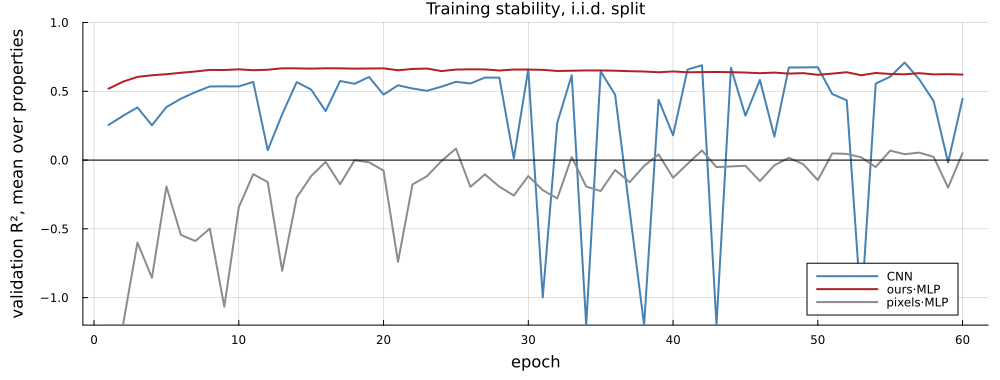
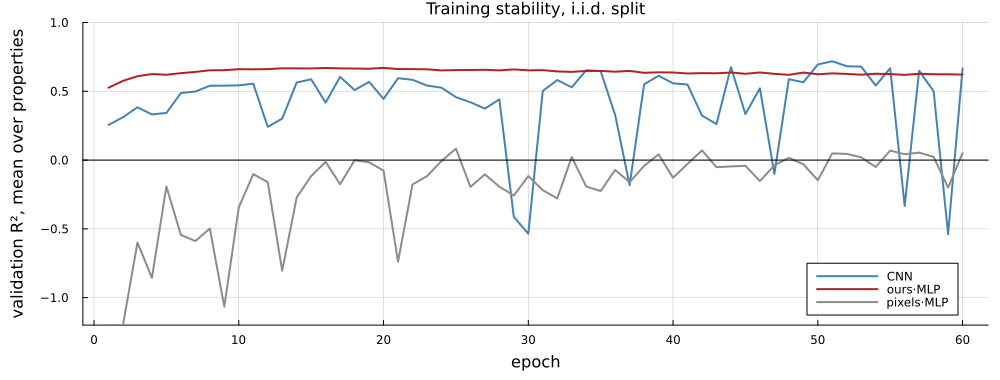
Rebuild every table and figure from one canonical run
The document had become a mixture: the i.i.d. table was updated after the
ratio-after-pooling fix, while the three extrapolation tables, the sample
efficiency curve, the grid sweep and all six figures still read from a run that
predated it.

Everything now comes from results_canon3 (grid 3, all arms, all stages),
results_canon1 (grid 1) and results_canon_g* (pooling sweep), all under the
current front end, so the tables and figures are internally consistent.

Numbers that moved materially: the CNN's polarity-split arms goes -0.415 ->
-0.057 and its thickness-split fuzziness -0.292 -> 0.239, both well inside the
~0.03-0.05 run-to-run variance already recorded for that arm; ours-linear
brokenness under blur 0.107 -> -0.029, which is a real degradation worth noting;
and the grid-1 configuration confirms at 0.925/0.737/0.938/0.954.

Plot_Phase9 also had to handle blocks.jls having become a NamedTuple when the
shuffle spread started being tracked, and now draws the leave-one-out rows.

diff --git a/SimpleStrokeTests/RESULTS.md b/SimpleStrokeTests/RESULTS.md
@@ -80,12 +80,16 @@ existed, and the pixel probe has 45× more free parameters than our feature prob
 | *trivial baseline* | 0.009 | 0.008 | 0.457 | 0.066 | 0.029 | 0.195 | 0.152 | 0.063 |
 | pixels·linear | −0.000 | −0.001 | −0.000 | −0.000 | 0.000 | −0.002 | −0.000 | **0.709** |
 | pixels·MLP | −0.183 | −0.404 | 0.721 | −0.137 | 0.108 | 0.007 | −0.222 | **0.787** |
-| CNN | 0.449 | 0.254 | 0.947 | 0.291 | **0.874** | **0.874** | **0.922** | **0.986** |
+| CNN | 0.411 | 0.298 | 0.962 | 0.290 | **0.859** | **0.893** | **0.936** | **0.990** |
 | **ours·linear** | **0.694** | **0.318** | **0.986** | **0.580** | 0.848 | 0.582 | 0.618 | −0.000 |
 | ours·MLP | **0.835** | **0.592** | **0.993** | **0.835** | **0.905** | 0.635 | 0.657 | −0.169 |
 | **ours·MLP, grid 1 (31 features)** | **0.925** | **0.737** | **0.998** | **0.938** | **0.954** | 0.687 | 0.714 | −0.099 |
 
-*CNN = full-resolution, four conv stages with pooling and batch norm, 60 epochs on a GPU.
+*Every number in this document comes from one canonical run under the current front end —
+`results_canon3` for grid 3, `results_canon1` for the grid-1 row, `results_canon_g*` for the
+pooling sweep — so the tables and figures are internally consistent rather than assembled from
+runs at different code states. CNN = full-resolution, four conv stages with pooling and batch
+norm, 60 epochs on a GPU.
 The earlier CPU-era numbers, from two strided convolutions trained for 12 epochs, are in
 "What the weaker CNN cost" below — the difference is large and the caveat was justified.*
 
@@ -130,9 +134,9 @@ trained.
 | *trivial* | 0.008 | 0.009 | 0.437 | 0.070 | 0.031 | 0.204 | 0.184 |
 | pixels·linear | −0.130 | −0.112 | −2.352 | −0.532 | −1.773 | −2.931 | −0.889 |
 | pixels·MLP | −2.747 | −1.491 | −5.025 | −3.668 | **−6.981** | −8.319 | −4.060 |
-| CNN | 0.202 | −0.197 | 0.817 | **−2.225** | −0.415 | −1.039 | −0.260 |
-| **ours·linear** | **0.682** | **0.350** | **0.985** | **0.570** | **0.857** | 0.634 | 0.639 |
-| ours·MLP | **0.849** | **0.661** | **0.997** | **0.870** | **0.929** | 0.671 | 0.699 |
+| CNN | 0.116 | −0.262 | 0.841 | **−2.107** | −0.057 | −1.485 | −0.108 |
+| **ours·linear** | **0.689** | **0.322** | **0.985** | **0.598** | **0.842** | 0.642 | 0.627 |
+| ours·MLP | **0.859** | **0.616** | **0.998** | **0.873** | **0.921** | 0.669 | 0.678 |
 
 **This is where the properly trained CNN separates from us most sharply, and not in its
 favour.** It is the strongest arm on `arms` i.i.d. (0.874) and lands at **−0.415** on the
@@ -151,9 +155,9 @@ one thing and the test set inverts it.
 | *trivial* | 0.000 | 0.005 | 0.378 | 0.071 | 0.024 | 0.019 |
 | pixels·linear | −0.001 | −0.001 | −0.004 | −0.001 | −0.004 | −0.003 |
 | pixels·MLP | −0.074 | −0.196 | 0.772 | −0.083 | −0.003 | −0.124 |
-| CNN | 0.150 | −0.145 | 0.929 | −0.012 | 0.715 | −0.538 |
-| **ours·linear** | **0.655** | 0.107 | **0.982** | **0.525** | **0.845** | −2.547 |
-| ours·MLP | **0.797** | **0.434** | **0.986** | **0.788** | **0.893** | −2.257 |
+| CNN | 0.277 | −0.071 | 0.917 | 0.103 | 0.675 | −0.620 |
+| **ours·linear** | **0.681** | −0.029 | **0.979** | **0.580** | **0.823** | −2.370 |
+| ours·MLP | **0.807** | **0.387** | **0.986** | **0.816** | **0.884** | −1.799 |
 
 Blur costs the CNN its corner readout entirely — `vangle` 0.291 i.i.d. to **−0.012** — while
 ours drops only 0.567 → 0.525. It keeps `arms` (0.715), which is the row it was strongest on.
@@ -165,9 +169,9 @@ ours drops only 0.567 → 0.525. It keeps `arms` (0.715), which is the row it wa
 | *trivial* | −0.001 | −0.006 | −0.435 | −0.086 | −0.035 | −0.911 |
 | pixels·linear | −0.002 | 0.003 | −0.001 | −0.000 | −0.004 | −0.004 |
 | pixels·MLP | −0.232 | −0.171 | 0.527 | −0.230 | −0.016 | −0.543 |
-| CNN | 0.204 | 0.061 | 0.717 | 0.200 | 0.389 | −0.292 |
-| **ours·linear** | **0.619** | **0.333** | **0.976** | **0.490** | **0.776** | −2.052 |
-| ours·MLP | **0.734** | **0.588** | **0.972** | **0.693** | **0.884** | −2.790 |
+| CNN | 0.148 | 0.035 | 0.569 | 0.169 | 0.571 | 0.239 |
+| **ours·linear** | **0.634** | **0.262** | **0.978** | **0.504** | **0.783** | −2.157 |
+| ours·MLP | **0.751** | **0.408** | **0.974** | **0.703** | **0.869** | −2.650 |
 
 `arms` is the clearest case in the whole experiment: the CNN leads it i.i.d. at 0.874, and
 under the three nuisance shifts it goes to **0.715**, **0.389** and **−0.415** while ours
@@ -336,11 +340,11 @@ grid the *other* way turned up something better.
 
 | grid | columns | linear `vangle` | linear `arms` | **MLP `vangle`** | **MLP `arms`** |
 |--:|--:|--:|--:|--:|--:|
-| **1×1** | **31** | 0.491 | 0.688 | **0.898** | **0.930** |
-| 2×2 | 124 | 0.521 | 0.782 | 0.858 | 0.917 |
-| 3×3 | 279 | **0.552** | **0.842** | 0.822 | 0.904 |
-| 4×4 | 496 | 0.532 | 0.839 | 0.785 | 0.887 |
-| 5×5 | 775 | 0.532 | 0.835 | 0.739 | 0.871 |
+| **1×1** | **31** | 0.543 | 0.729 | **0.938** | **0.954** |
+| 2×2 | 124 | 0.562 | 0.775 | 0.883 | 0.923 |
+| 3×3 | 279 | **0.580** | **0.848** | 0.835 | 0.905 |
+| 4×4 | 496 | 0.556 | 0.840 | 0.800 | 0.890 |
+| 5×5 | 775 | 0.544 | 0.836 | 0.772 | 0.895 |
 
 **The two readouts want opposite things, monotonically and without exception.** The linear
 readout peaks at 3×3; the MLP improves all the way down to a single cell, and **31 globally
